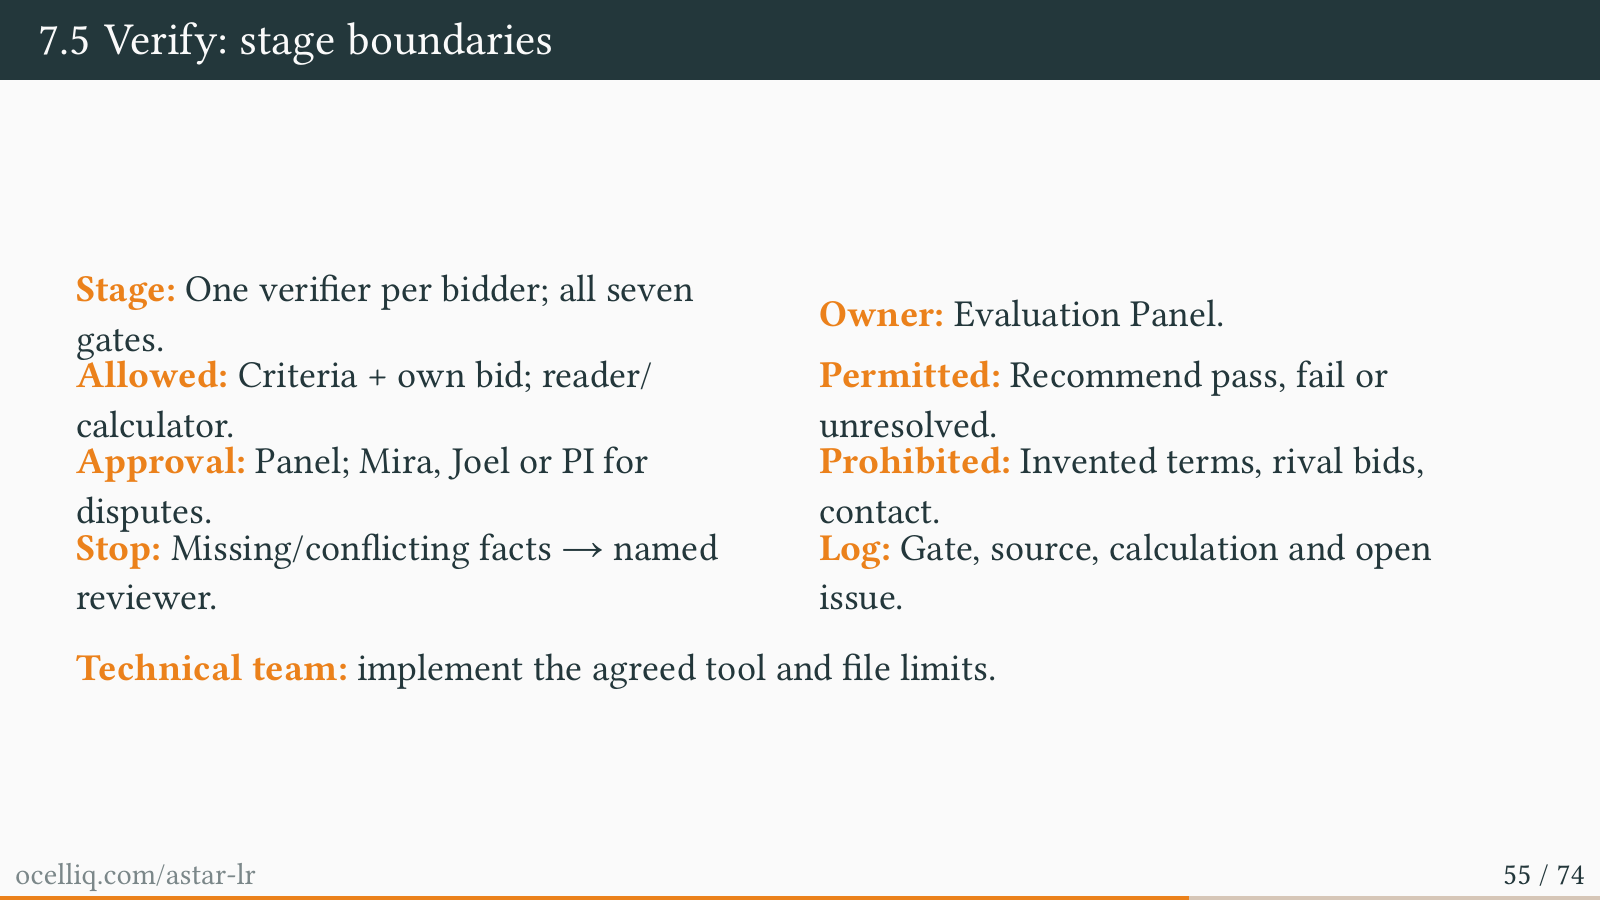
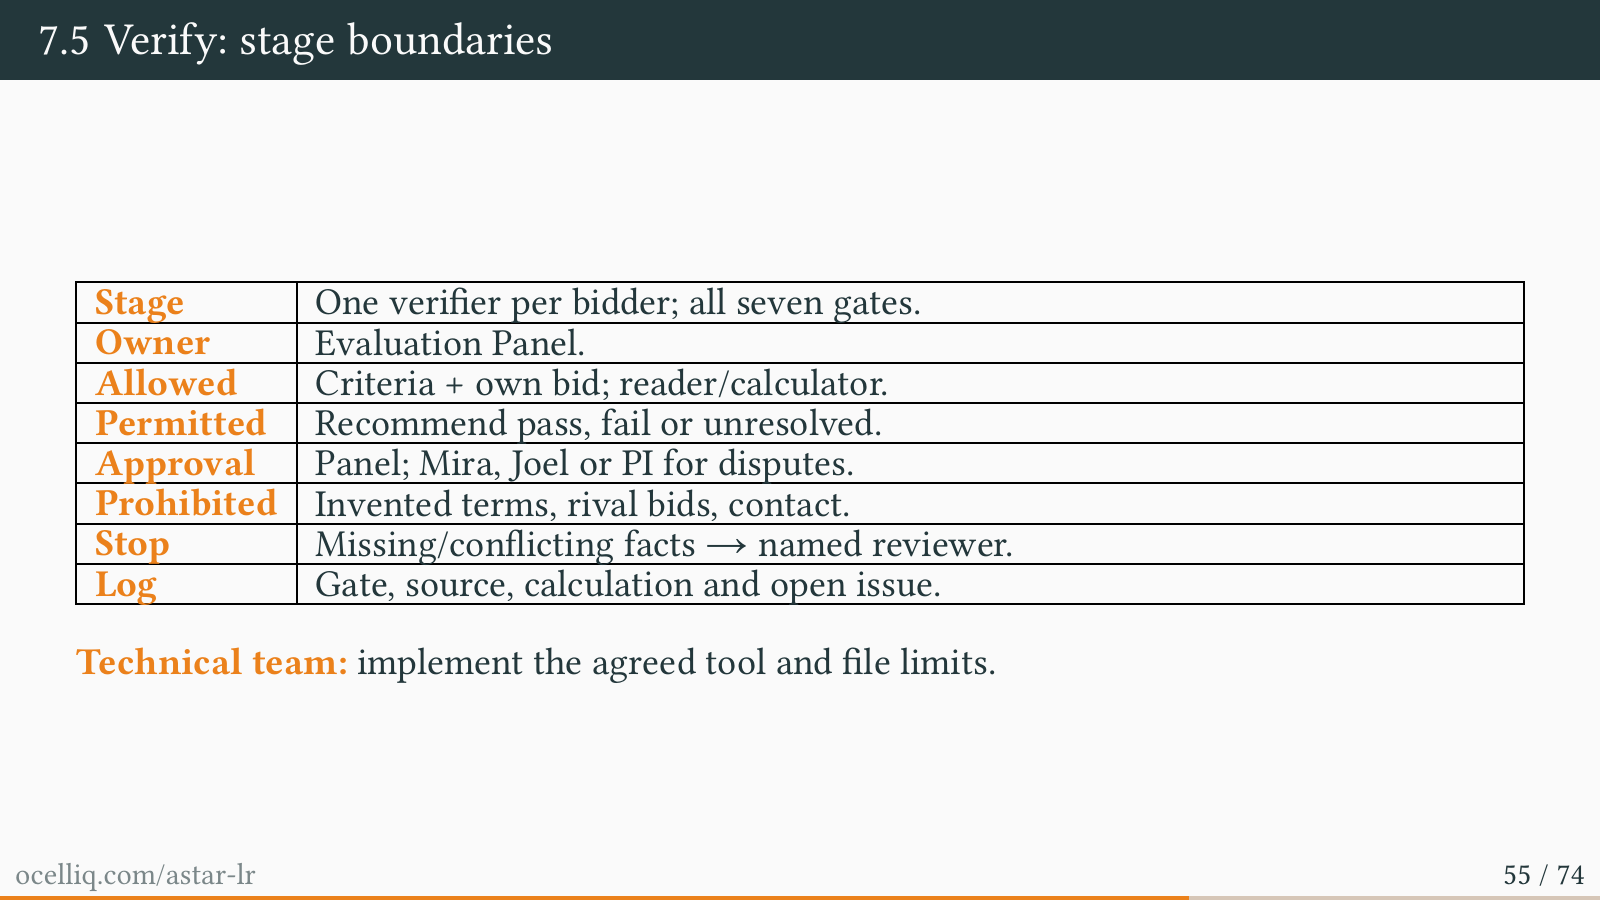
Present Verify boundaries as a two-column table

Changed region(s): [[0.0312, 0.3111, 0.9062, 0.6844], [0.0312, 0.7156, 0.625, 0.7778]]

diff --git a/.claude/skills/slides/resources/slides.md b/.claude/skills/slides/resources/slides.md
@@ -1326,21 +1326,21 @@ ocelliq.com/astar-lr                                                            
 
 
 
-     Stage: One verifier per bidder; all seven
-                                                   Owner: Evaluation Panel.
-     gates.
-     Allowed: Criteria + own bid; reader/          Permitted: Recommend pass, fail or
-     calculator.                                   unresolved.
-     Approval: Panel; Mira, Joel or PI for         Prohibited: Invented terms, rival bids,
-     disputes.                                     contact.
-     Stop: Missing/conflicting facts → named       Log: Gate, source, calculation and open
-     reviewer.                                     issue.
+      Stage            One verifier per bidder; all seven gates.
+      Owner            Evaluation Panel.
+      Allowed          Criteria + own bid; reader/calculator.
+      Permitted        Recommend pass, fail or unresolved.
+      Approval         Panel; Mira, Joel or PI for disputes.
+      Prohibited       Invented terms, rival bids, contact.
+      Stop             Missing/conflicting facts → named reviewer.
+      Log              Gate, source, calculation and open issue.
+
      Technical team: implement the agreed tool and file limits.
 
 
 
 
-ocelliq.com/astar-lr                                                                         55 / 74
+ocelliq.com/astar-lr                                                 55 / 74
 
 ## Slide 56 · PDF page 87 · Ingest:preserve the evidence
 
